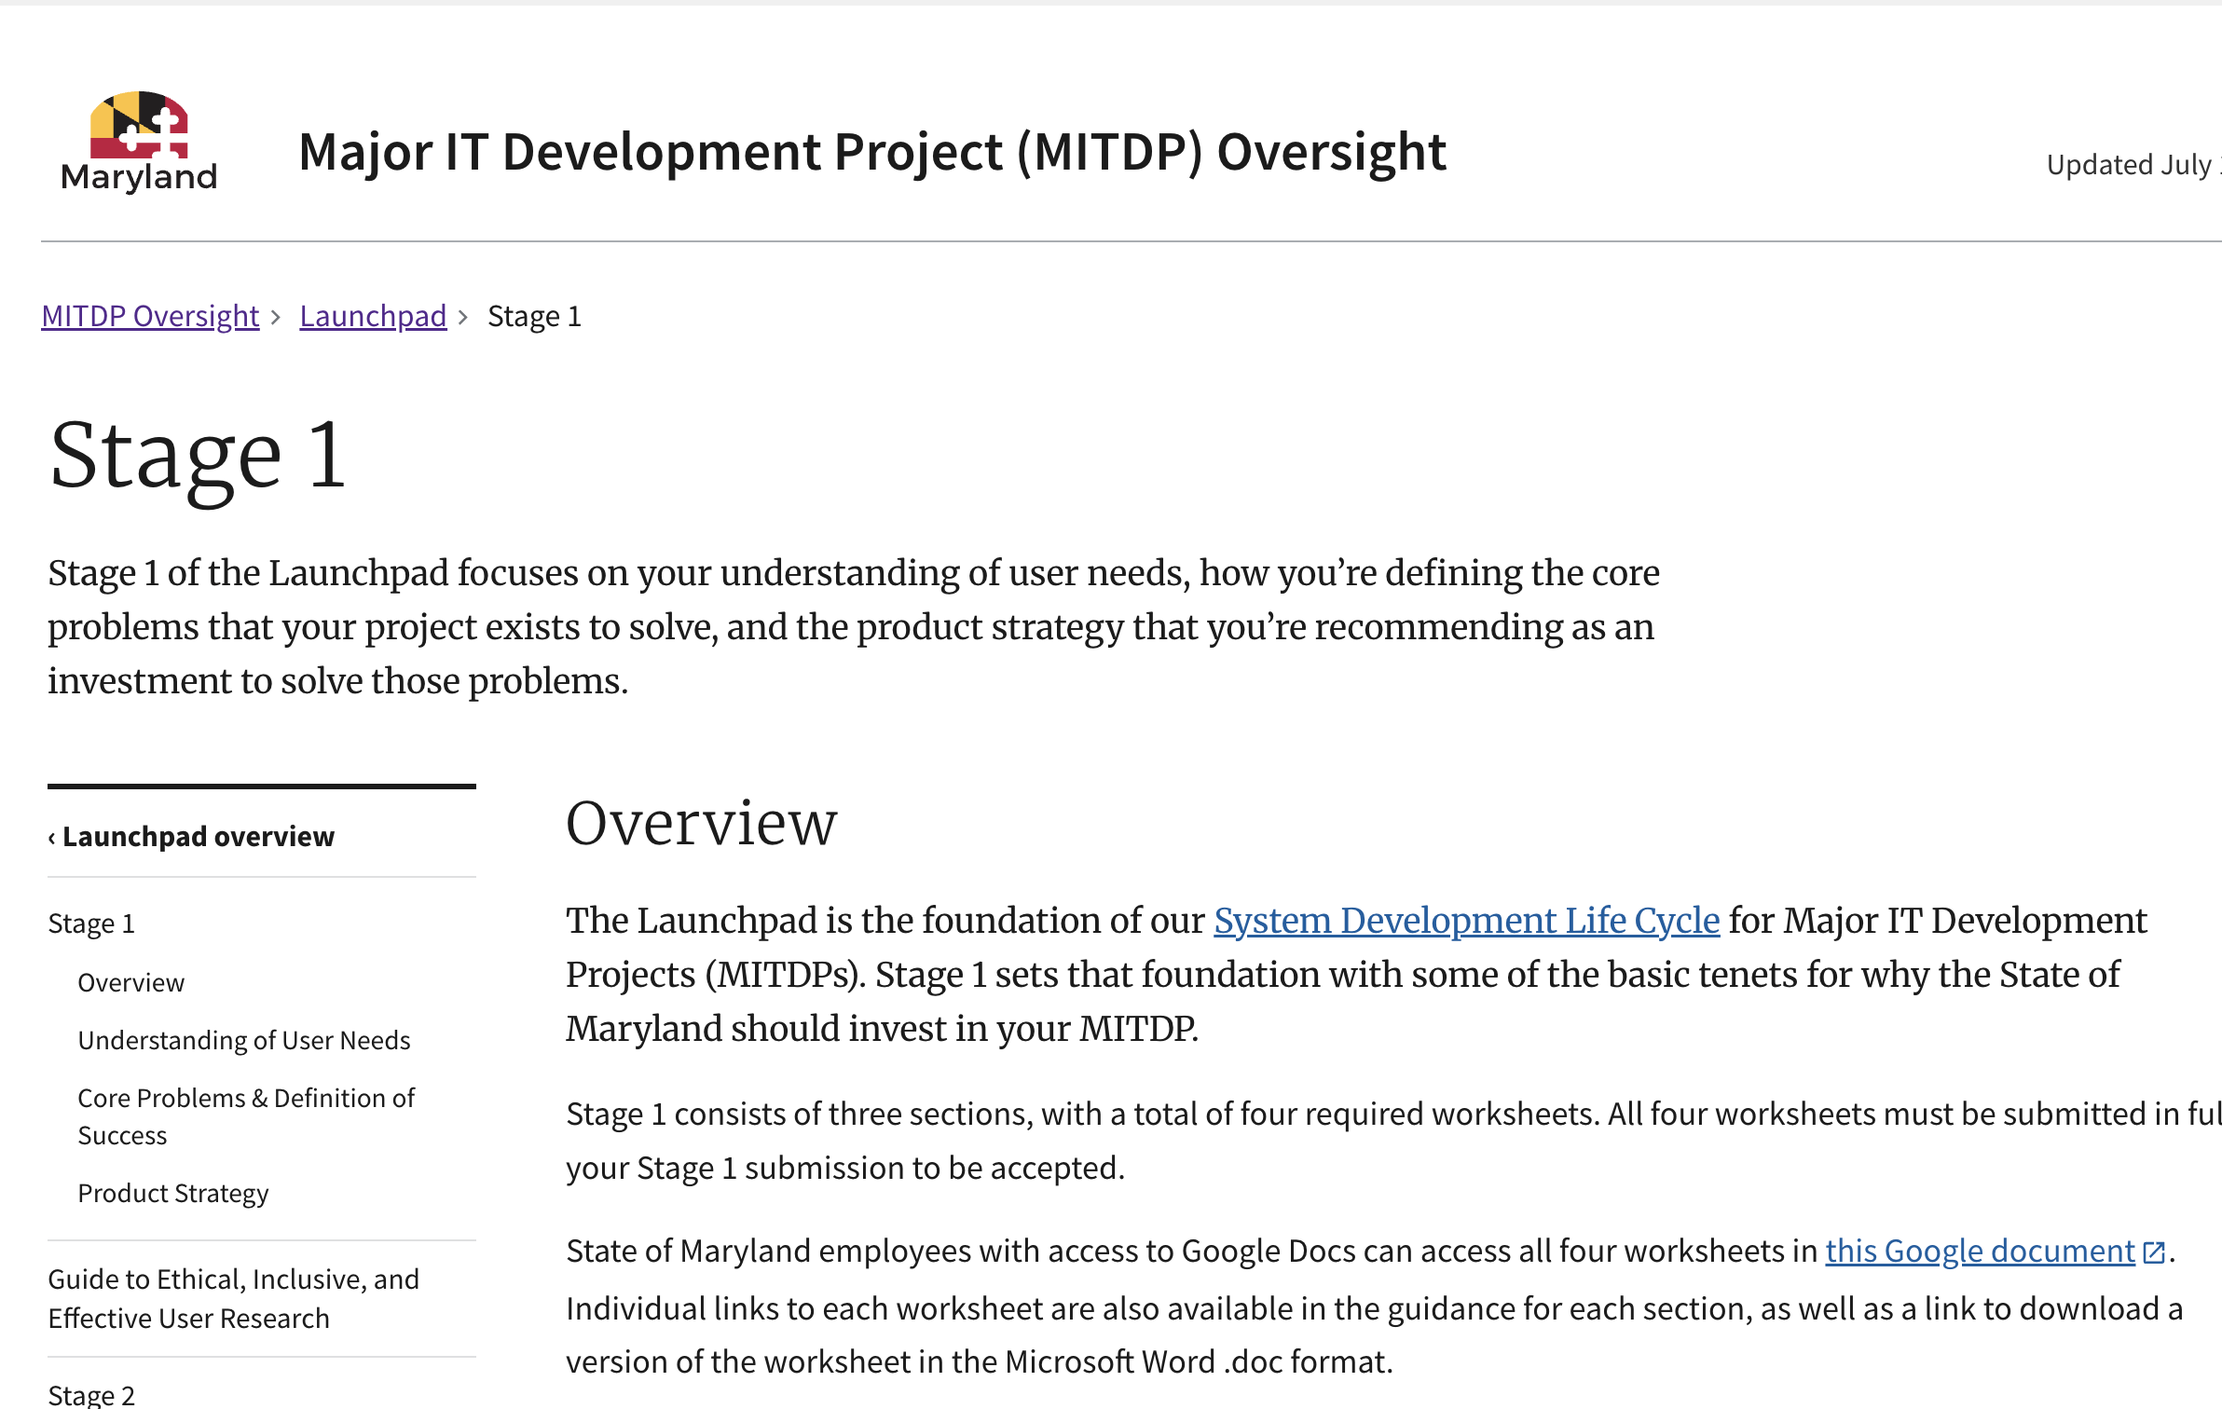
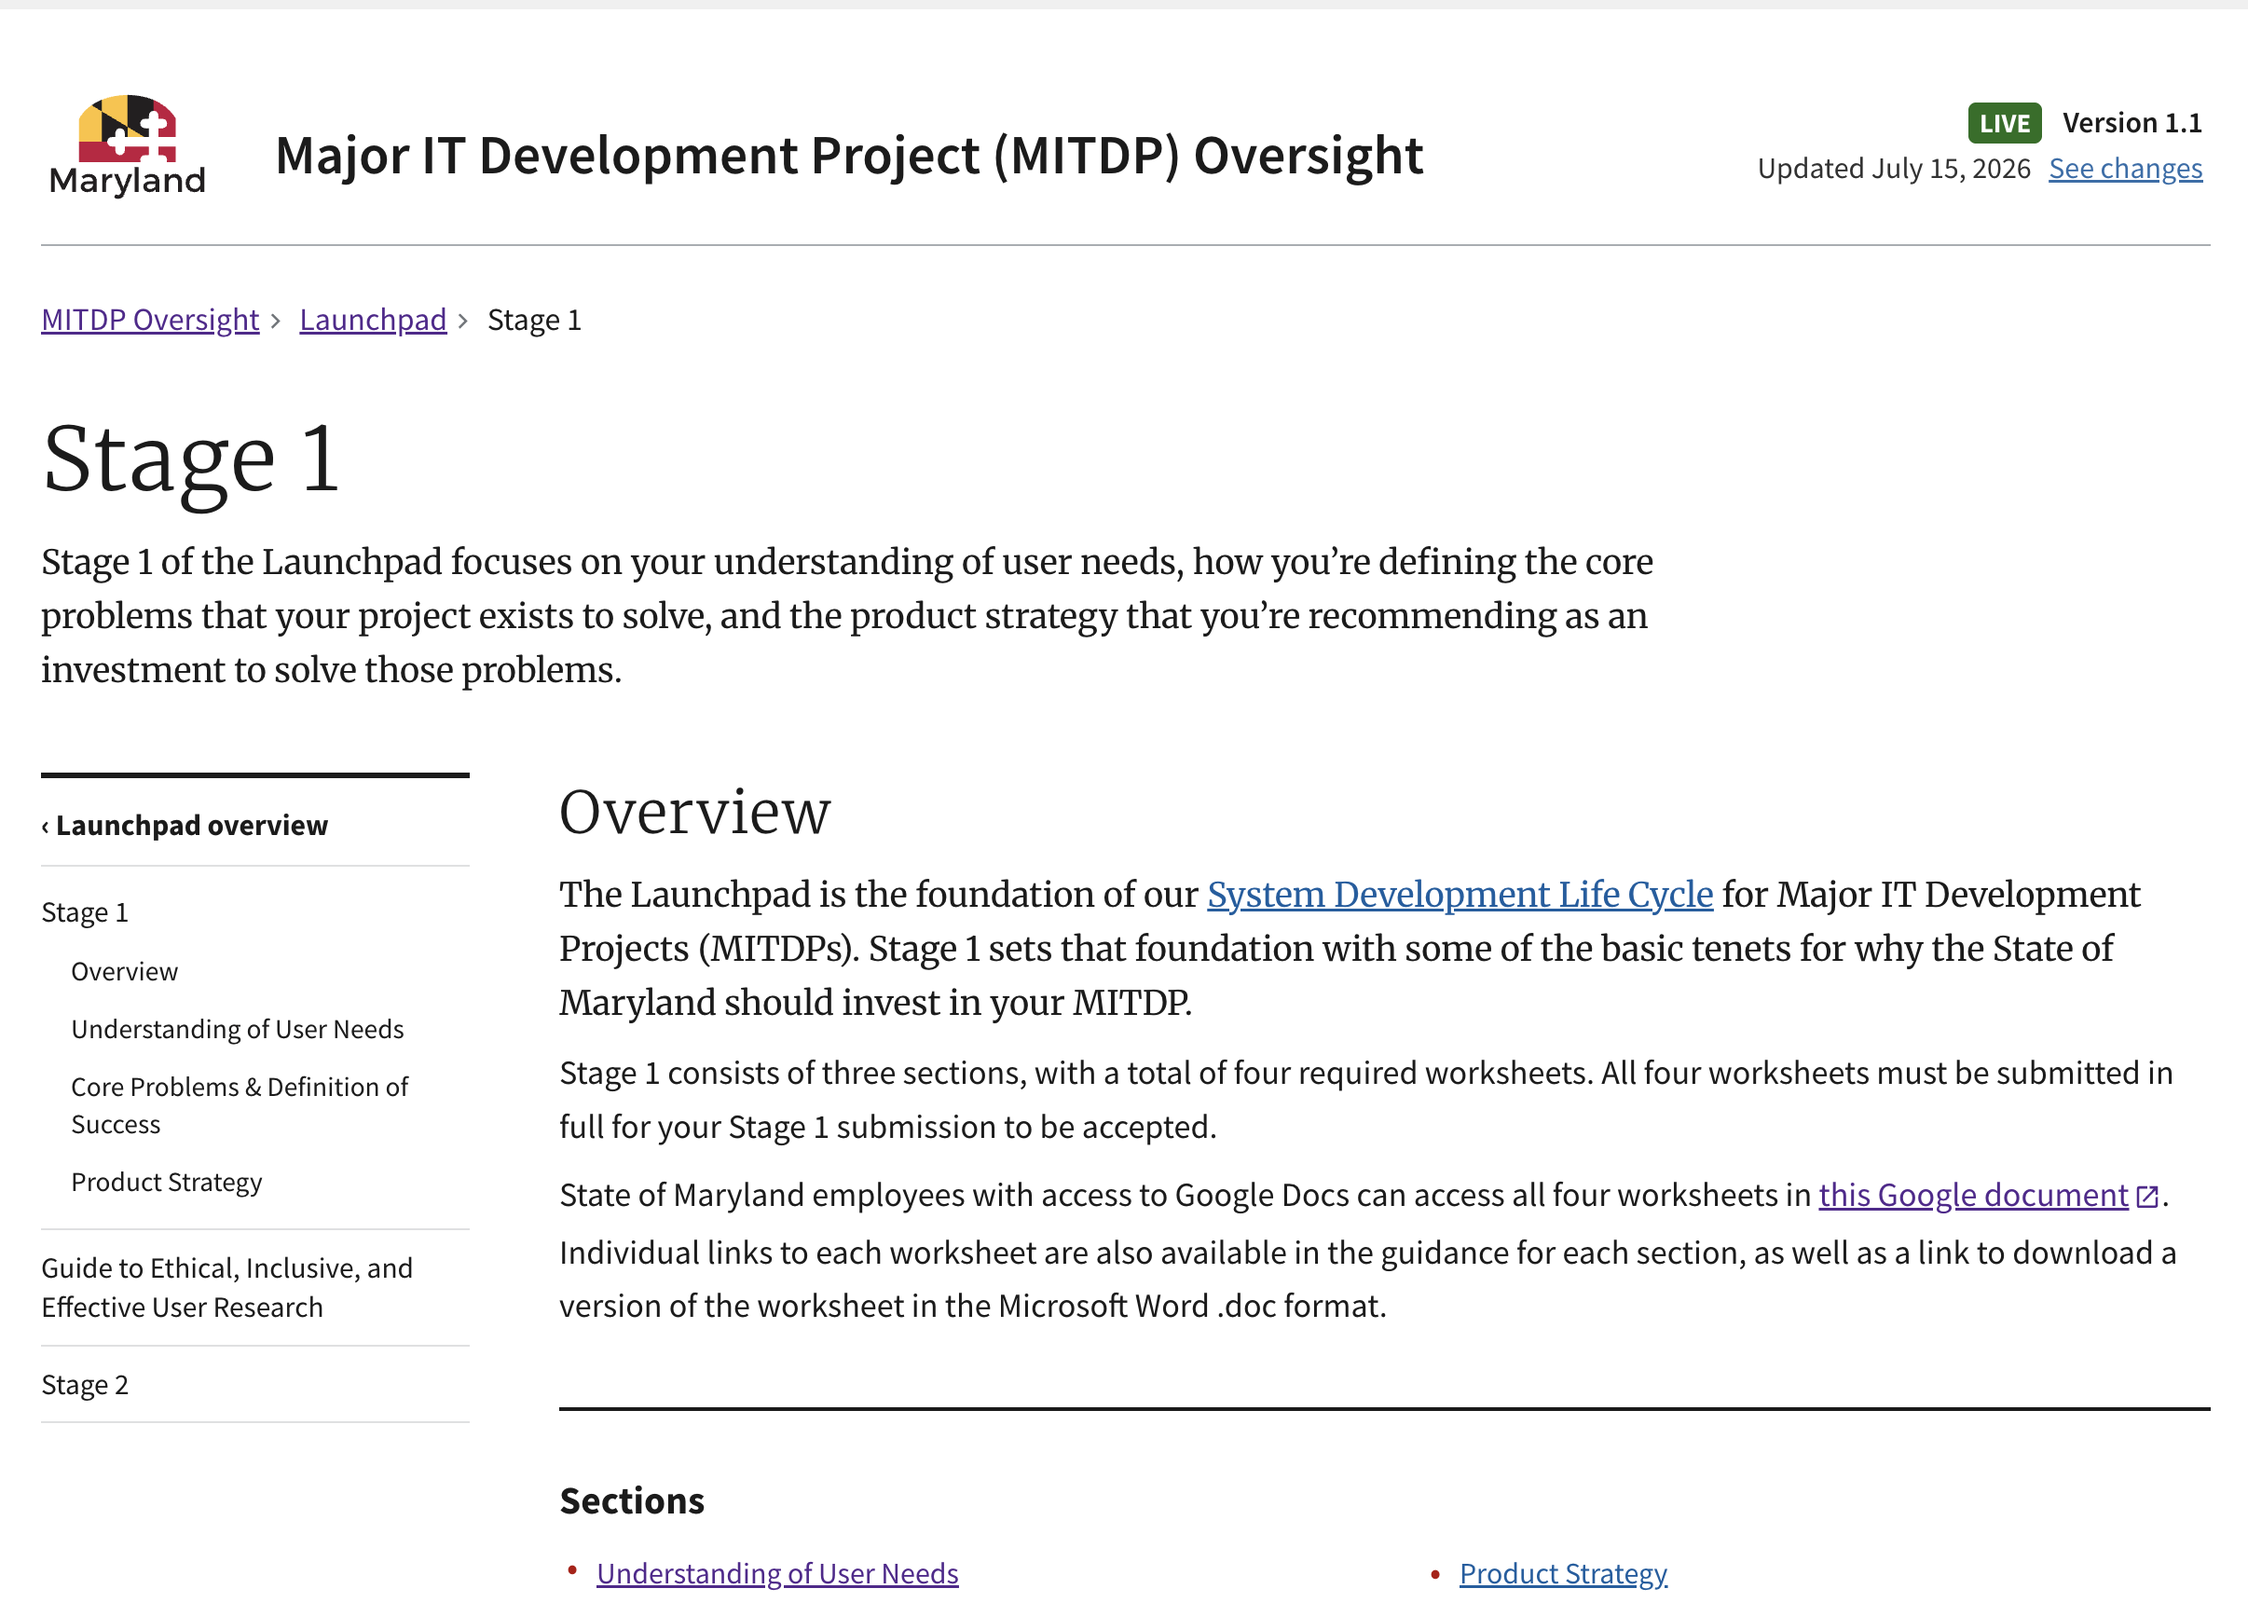
formatting

diff --git a/template.html b/template.html
@@ -99,7 +99,7 @@
         border-top: 2px solid #1b1b1b;
         border-bottom: 1px solid #dfe1e2;
         padding: 1.25rem 0 3rem;
-        margin: 2.5rem 0 5rem;
+        margin: 2.5rem 0 2rem;
         max-width: 1100px;
       }
 

diff --git a/content/launchpad/stage-2.md b/content/launchpad/stage-2.md
@@ -2,10 +2,11 @@ Sidebar: stage-1-sidebar
 Breadcrumb: [MITDP Oversight](overview.md) > [Launchpad](launchpad.md)
 Meta title: Launchpad Stage 2 | Major IT Project (MITDP) Oversight | State of Maryland
 Description: Stage 2 of the Launchpad focuses on your strategy for implementation, including how you'll determine what technology options are best, how you'll demonstrate working software within 90 days, how you'll build a team that can deliver on your success metrics, and how you'll work across stakeholders and known risk areas to address the Core Problems that your MITDP exists to solve.
+Image: /mitdp/images/stage-2.png
 
 # Stage 2
 
-Stage 2 of the Launchpad focuses on your strategy for implementation, including how you’ll determine what technology options are best and how you’ll build a team that can address the Core Problems that your MITDP exists to solve. {.intro}
+Stage 2 of the [Launchpad](launchpad.md) focuses on your strategy for implementation, including how you’ll determine what technology options are best and how you’ll build a team that can address the Core Problems that your MITDP exists to solve. {.intro}
 
 ## Overview
 

diff --git a/content/launchpad/stage-1.md b/content/launchpad/stage-1.md
@@ -2,7 +2,7 @@ Sidebar: stage-1-sidebar
 Breadcrumb: [MITDP Oversight](overview.md) > [Launchpad](launchpad.md)
 Meta title: Launchpad Stage 1 | Major IT Project (MITDP) Oversight | State of Maryland
 Description: The Launchpad is the foundation of our System Development Life Cycle for Major IT Development Projects (MITDPs). Stage 1 sets that foundation with some of the basic tenets for why the State of Maryland should invest in your MITDP.
-Image: /content/images/stage-1.png
+Image: /mitdp/images/stage-1.png
 
 # Stage 1
 
